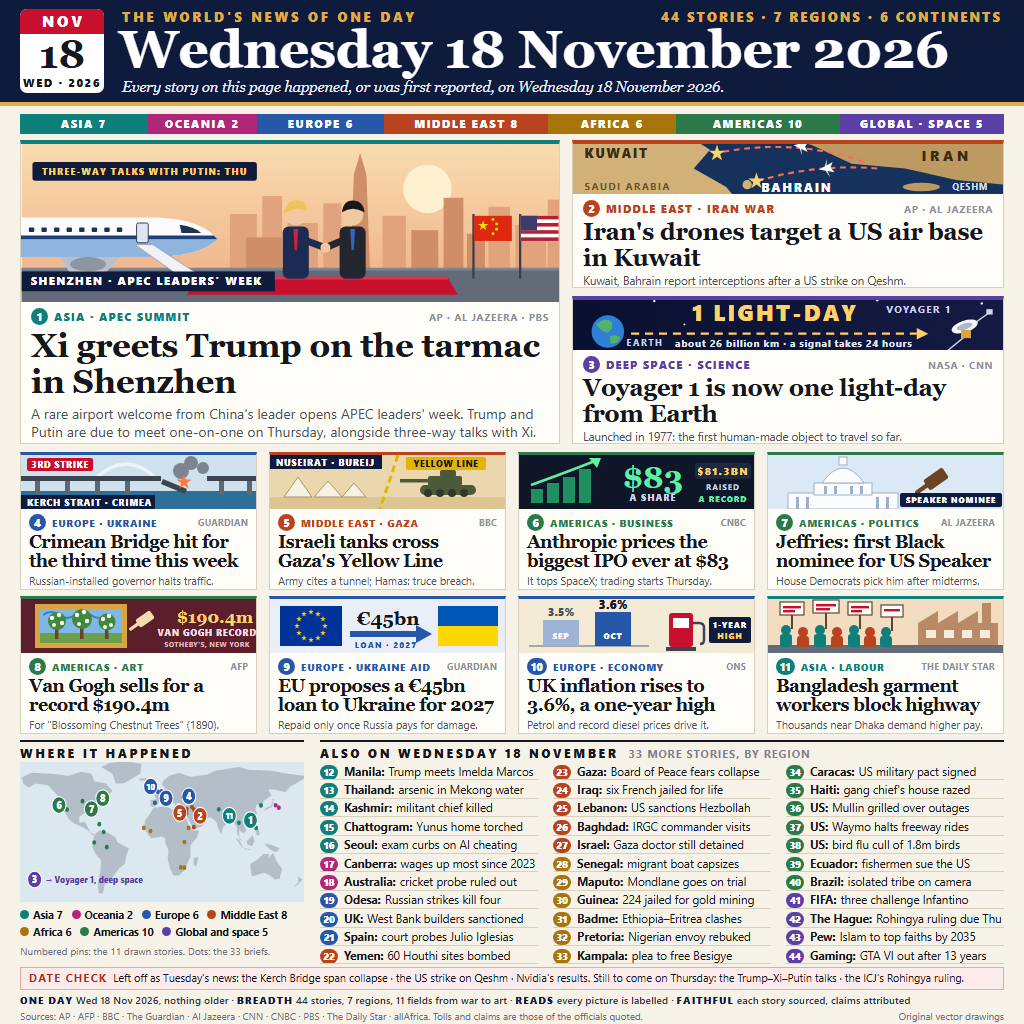
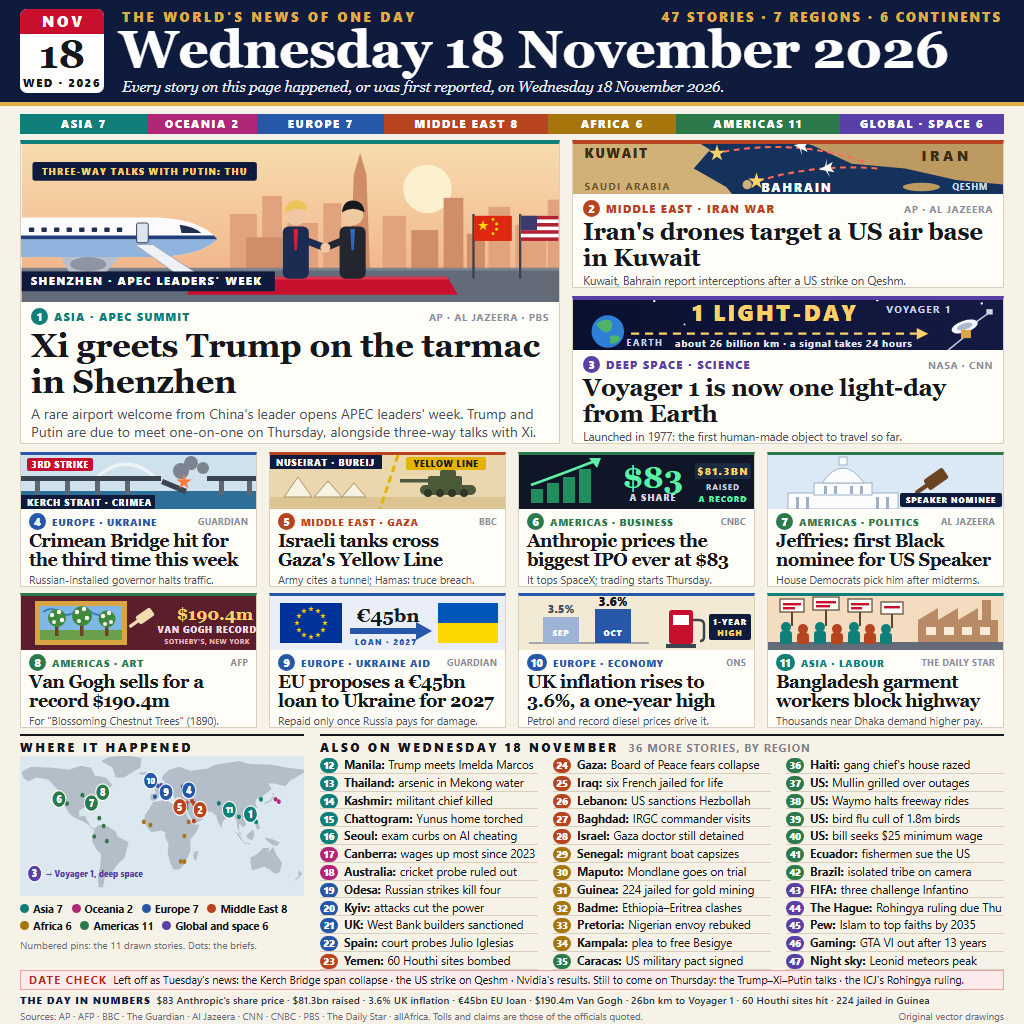
47 stories: three more dated briefs and the day in numbers
Adds Kyiv's power cuts, the US minimum wage bill and the Leonid peak, and
replaces the footer's summary line with the day's key figures.

Changed region(s): [[0.0, 0.5, 1.0, 1.0], [0.6875, 0.0938, 0.7812, 0.125]]

diff --git a/src/page.html b/src/page.html
@@ -80,14 +80,14 @@
   .lead p { font-size: 14px; line-height: 18px; color: var(--soft); margin-top: 5px; }
   .second h2 { font-family: Georgia, serif; font-size: 24px; line-height: 25.5px; letter-spacing: -0.3px; margin-top: 2px; }
   .second p { font-size: 11.5px; line-height: 15px; color: var(--soft); margin-top: 3px; white-space: nowrap; }
-  .tile .txt { padding: 5px 8px 0 8px; }
+  .tile .txt { padding: 4px 8px 0 8px; }
   .tile h2 { font-family: Georgia, serif; font-size: 17.5px; line-height: 19px; letter-spacing: -0.2px; margin-top: 2px; }
   .tile p { font-size: 10.8px; line-height: 13.5px; color: var(--soft); margin-top: 3px; white-space: nowrap; }
   .tile .tag { font-size: 9.5px; letter-spacing: 1px; }
   .tile .tag .src { font-size: 8.5px; letter-spacing: 0.6px; }
 
   /* ---------- briefs ---------- */
-  .briefs { position: absolute; left: 20px; top: 740px; width: 984px; height: 226px; }
+  .briefs { position: absolute; left: 20px; top: 734px; width: 984px; height: 236px; }
   .briefs .head {
     font-size: 12px; font-weight: 800; letter-spacing: 2.6px; border-top: 2px solid var(--ink); padding-top: 3px; height: 22px;
   }
@@ -103,7 +103,7 @@
   .cols { display: flex; gap: 15px; }
   .cols ol { list-style: none; width: 218px; }
   .cols li {
-    font-size: 11.6px; line-height: 15px; height: 18.4px; padding-top: 1.6px; border-bottom: 1px solid var(--rule);
+    font-size: 11.6px; line-height: 15px; height: 17.8px; padding-top: 1.3px; border-bottom: 1px solid var(--rule);
     white-space: nowrap; overflow: hidden; display: flex; align-items: baseline;
   }
   .cols li b { margin-right: 4px; }
@@ -113,11 +113,11 @@
   }
 
   /* ---------- footer ---------- */
-  .foot { position: absolute; left: 20px; top: 967px; width: 984px; }
+  .foot { position: absolute; left: 20px; top: 970px; width: 984px; }
   .meets { font-size: 10.4px; line-height: 13px; margin-top: 4px; white-space: nowrap; font-weight: 600; color: #2a2e37; }
   .meets b { color: var(--navy); letter-spacing: 0.8px; }
   .check {
-    background: #fbeceb; border: 1px solid #e3a8a3; font-size: 10.8px; line-height: 14px; padding: 3px 8px 4px 8px; white-space: nowrap; overflow: hidden;
+    background: #fbeceb; border: 1px solid #e3a8a3; font-size: 10.8px; line-height: 13px; padding: 2px 8px 3px 8px; white-space: nowrap; overflow: hidden;
   }
   .check b { color: #b3261e; letter-spacing: 1.4px; margin-right: 6px; }
   .sources { font-size: 9.8px; line-height: 13px; color: #6a6f79; margin-top: 2px; display: flex; white-space: nowrap; }
@@ -155,7 +155,7 @@
     <div class="yr">WED · 2026</div>
   </div>
   <div class="kicker">THE WORLD'S NEWS OF ONE DAY</div>
-  <div class="count">44 STORIES · 7 REGIONS · 6 CONTINENTS</div>
+  <div class="count">47 STORIES · 7 REGIONS · 6 CONTINENTS</div>
   <h1>Wednesday 18 November 2026</h1>
   <div class="pledge">Every story on this page happened, or was first reported, on Wednesday 18 November 2026.</div>
 </div>
@@ -163,11 +163,11 @@
 <div class="tally">
   <div class="bg-asia" style="flex:7">ASIA 7</div>
   <div class="bg-oceania" style="flex:6">OCEANIA 2</div>
-  <div class="bg-europe" style="flex:7">EUROPE 6</div>
+  <div class="bg-europe" style="flex:7">EUROPE 7</div>
   <div class="bg-mideast" style="flex:9">MIDDLE EAST 8</div>
   <div class="bg-africa" style="flex:7">AFRICA 6</div>
-  <div class="bg-americas" style="flex:9">AMERICAS 10</div>
-  <div class="bg-global" style="flex:9">GLOBAL · SPACE 5</div>
+  <div class="bg-americas" style="flex:9">AMERICAS 11</div>
+  <div class="bg-global" style="flex:9">GLOBAL · SPACE 6</div>
 </div>
 
 <!-- ================= lead: Shenzhen ================= -->
@@ -307,7 +307,7 @@
 </div>
 
 <!-- ================= tiles, row one ================= -->
-<div class="card tile" style="left:20px; top:452px; width:237px; height:138px; border-top:3px solid var(--europe)">
+<div class="card tile" style="left:20px; top:452px; width:237px; height:135px; border-top:3px solid var(--europe)">
   <svg width="237" height="54" viewBox="0 0 237 54">
     <rect width="237" height="54" fill="#cfe1ec"/>
     <rect y="36" width="237" height="18" fill="#2e6f99"/>
@@ -333,7 +333,7 @@
   </div>
 </div>
 
-<div class="card tile" style="left:269px; top:452px; width:237px; height:138px; border-top:3px solid var(--mideast)">
+<div class="card tile" style="left:269px; top:452px; width:237px; height:135px; border-top:3px solid var(--mideast)">
   <svg width="237" height="54" viewBox="0 0 237 54">
     <rect width="237" height="54" fill="#ead7ae"/>
     <rect y="42" width="237" height="12" fill="#dcc592"/>
@@ -361,7 +361,7 @@
   </div>
 </div>
 
-<div class="card tile" style="left:518px; top:452px; width:237px; height:138px; border-top:3px solid var(--americas)">
+<div class="card tile" style="left:518px; top:452px; width:237px; height:135px; border-top:3px solid var(--americas)">
   <svg width="237" height="54" viewBox="0 0 237 54">
     <rect width="237" height="54" fill="#0e1627"/>
     <g fill="#1f8f5f">
@@ -384,7 +384,7 @@
   </div>
 </div>
 
-<div class="card tile" style="left:767px; top:452px; width:237px; height:138px; border-top:3px solid var(--americas)">
+<div class="card tile" style="left:767px; top:452px; width:237px; height:135px; border-top:3px solid var(--americas)">
   <svg width="237" height="54" viewBox="0 0 237 54">
     <rect width="237" height="54" fill="#dbe8f6"/>
     <!-- Capitol -->
@@ -411,7 +411,7 @@
 </div>
 
 <!-- ================= tiles, row two ================= -->
-<div class="card tile" style="left:20px; top:596px; width:237px; height:138px; border-top:3px solid var(--americas)">
+<div class="card tile" style="left:20px; top:593px; width:237px; height:135px; border-top:3px solid var(--americas)">
   <svg width="237" height="54" viewBox="0 0 237 54">
     <rect width="237" height="54" fill="#5a1f2b"/>
     <rect x="14" y="5" width="92" height="44" fill="#d9a441"/>
@@ -437,7 +437,7 @@
   </div>
 </div>
 
-<div class="card tile" style="left:269px; top:596px; width:237px; height:138px; border-top:3px solid var(--europe)">
+<div class="card tile" style="left:269px; top:593px; width:237px; height:135px; border-top:3px solid var(--europe)">
   <svg width="237" height="54" viewBox="0 0 237 54">
     <rect width="237" height="54" fill="#e9eef8"/>
     <rect x="10" y="7" width="62" height="40" fill="#003399"/>
@@ -463,7 +463,7 @@
   </div>
 </div>
 
-<div class="card tile" style="left:518px; top:596px; width:237px; height:138px; border-top:3px solid var(--europe)">
+<div class="card tile" style="left:518px; top:593px; width:237px; height:135px; border-top:3px solid var(--europe)">
   <svg width="237" height="54" viewBox="0 0 237 54">
     <rect width="237" height="54" fill="#f3ead6"/>
     <line x1="10" y1="47" x2="130" y2="47" stroke="#8a8f99" stroke-width="1.5"/>
@@ -491,7 +491,7 @@
   </div>
 </div>
 
-<div class="card tile" style="left:767px; top:596px; width:237px; height:138px; border-top:3px solid var(--asia)">
+<div class="card tile" style="left:767px; top:593px; width:237px; height:135px; border-top:3px solid var(--asia)">
   <svg width="237" height="54" viewBox="0 0 237 54">
     <rect width="237" height="54" fill="#f4dcc0"/>
     <!-- factory -->
@@ -560,7 +560,7 @@
       <!-- briefs: one dot each, in its region's colour -->
       <g fill="#0f7f7a"><circle cx="121" cy="-14.6" r="2.4"/><circle cx="99.8" cy="-19.9" r="2.4"/><circle cx="75" cy="-33.7" r="2.4"/><circle cx="91.8" cy="-22.3" r="2.4"/><circle cx="127" cy="-37.6" r="2.4"/></g>
       <g fill="#b0277a"><circle cx="149" cy="-35.3" r="2.4"/><circle cx="145" cy="-37.8" r="2.4"/></g>
-      <g fill="#2757a8"><circle cx="30.7" cy="-46.5" r="2.4"/><circle cx="-0.1" cy="-51.5" r="2.4"/><circle cx="-3.7" cy="-40.4" r="2.4"/></g>
+      <g fill="#2757a8"><circle cx="30.5" cy="-50.5" r="2.4"/><circle cx="30.7" cy="-46.5" r="2.4"/><circle cx="-0.1" cy="-51.5" r="2.4"/><circle cx="-3.7" cy="-40.4" r="2.4"/></g>
       <g fill="#b8431f"><circle cx="44.2" cy="-15.4" r="2.4"/><circle cx="34.3" cy="-31.5" r="2.4"/><circle cx="44.4" cy="-33.3" r="2.4"/><circle cx="35.5" cy="-33.9" r="2.4"/><circle cx="42" cy="-36" r="2.4"/><circle cx="35.2" cy="-29.5" r="2.4"/></g>
       <g fill="#a8740c"><circle cx="-17.4" cy="-14.7" r="2.4"/><circle cx="32.6" cy="25.9" r="2.4"/><circle cx="-9.2" cy="-11.4" r="2.4"/><circle cx="37.8" cy="-14.7" r="2.4"/><circle cx="28.2" cy="25.7" r="2.4"/><circle cx="32.6" cy="-0.3" r="2.4"/></g>
       <g fill="#2c7a4b"><circle cx="-66.9" cy="-10.5" r="2.4"/><circle cx="-72.3" cy="-18.5" r="2.4"/><circle cx="-77" cy="-38.9" r="2.4"/><circle cx="-112" cy="-33.4" r="2.4"/><circle cx="-93" cy="-42" r="2.4"/><circle cx="-78.5" cy="0.2" r="2.4"/><circle cx="-63" cy="5" r="2.4"/></g>
@@ -582,14 +582,14 @@
       <text x="-139" y="42" font-size="10" font-weight="800" fill="#5a3fa6">→ Voyager 1, deep space</text>
     </svg>
     <div class="legend">
-      <span><i class="bg-asia"></i>Asia 7</span><span><i class="bg-oceania"></i>Oceania 2</span><span><i class="bg-europe"></i>Europe 6</span>
-      <span><i class="bg-mideast"></i>Middle East 8</span><span><i class="bg-africa"></i>Africa 6</span><span><i class="bg-americas"></i>Americas 10</span>
-      <span><i class="bg-global"></i>Global and space 5</span>
+      <span><i class="bg-asia"></i>Asia 7</span><span><i class="bg-oceania"></i>Oceania 2</span><span><i class="bg-europe"></i>Europe 7</span>
+      <span><i class="bg-mideast"></i>Middle East 8</span><span><i class="bg-africa"></i>Africa 6</span><span><i class="bg-americas"></i>Americas 11</span>
+      <span><i class="bg-global"></i>Global and space 6</span>
     </div>
-    <div class="key">Numbered pins: the 11 drawn stories. Dots: the 33 briefs.</div>
+    <div class="key">Numbered pins: the 11 drawn stories. Dots: the briefs.</div>
   </div>
   <div class="also">
-    <div class="head">ALSO ON WEDNESDAY 18 NOVEMBER<span>33 MORE STORIES, BY REGION</span></div>
+    <div class="head">ALSO ON WEDNESDAY 18 NOVEMBER<span>36 MORE STORIES, BY REGION</span></div>
     <div class="cols">
       <ol>
         <li><i class="bg-asia">12</i><b>Manila:</b> Trump meets Imelda Marcos</li>
@@ -600,35 +600,38 @@
         <li><i class="bg-oceania">17</i><b>Canberra:</b> wages up most since 2023</li>
         <li><i class="bg-oceania">18</i><b>Australia:</b> cricket probe ruled out</li>
         <li><i class="bg-europe">19</i><b>Odesa:</b> Russian strikes kill four</li>
-        <li><i class="bg-europe">20</i><b>UK:</b> West Bank builders sanctioned</li>
-        <li><i class="bg-europe">21</i><b>Spain:</b> court probes Julio Iglesias</li>
-        <li><i class="bg-mideast">22</i><b>Yemen:</b> 60 Houthi sites bombed</li>
+        <li><i class="bg-europe">20</i><b>Kyiv:</b> attacks cut the power</li>
+        <li><i class="bg-europe">21</i><b>UK:</b> West Bank builders sanctioned</li>
+        <li><i class="bg-europe">22</i><b>Spain:</b> court probes Julio Iglesias</li>
+        <li><i class="bg-mideast">23</i><b>Yemen:</b> 60 Houthi sites bombed</li>
       </ol>
       <ol>
-        <li><i class="bg-mideast">23</i><b>Gaza:</b> Board of Peace fears collapse</li>
-        <li><i class="bg-mideast">24</i><b>Iraq:</b> six French jailed for life</li>
-        <li><i class="bg-mideast">25</i><b>Lebanon:</b> US sanctions Hezbollah</li>
-        <li><i class="bg-mideast">26</i><b>Baghdad:</b> IRGC commander visits</li>
-        <li><i class="bg-mideast">27</i><b>Israel:</b> Gaza doctor still detained</li>
-        <li><i class="bg-africa">28</i><b>Senegal:</b> migrant boat capsizes</li>
-        <li><i class="bg-africa">29</i><b>Maputo:</b> Mondlane goes on trial</li>
-        <li><i class="bg-africa">30</i><b>Guinea:</b> 224 jailed for gold mining</li>
-        <li><i class="bg-africa">31</i><b>Badme:</b> Ethiopia–Eritrea clashes</li>
-        <li><i class="bg-africa">32</i><b>Pretoria:</b> Nigerian envoy rebuked</li>
-        <li><i class="bg-africa">33</i><b>Kampala:</b> plea to free Besigye</li>
+        <li><i class="bg-mideast">24</i><b>Gaza:</b> Board of Peace fears collapse</li>
+        <li><i class="bg-mideast">25</i><b>Iraq:</b> six French jailed for life</li>
+        <li><i class="bg-mideast">26</i><b>Lebanon:</b> US sanctions Hezbollah</li>
+        <li><i class="bg-mideast">27</i><b>Baghdad:</b> IRGC commander visits</li>
+        <li><i class="bg-mideast">28</i><b>Israel:</b> Gaza doctor still detained</li>
+        <li><i class="bg-africa">29</i><b>Senegal:</b> migrant boat capsizes</li>
+        <li><i class="bg-africa">30</i><b>Maputo:</b> Mondlane goes on trial</li>
+        <li><i class="bg-africa">31</i><b>Guinea:</b> 224 jailed for gold mining</li>
+        <li><i class="bg-africa">32</i><b>Badme:</b> Ethiopia–Eritrea clashes</li>
+        <li><i class="bg-africa">33</i><b>Pretoria:</b> Nigerian envoy rebuked</li>
+        <li><i class="bg-africa">34</i><b>Kampala:</b> plea to free Besigye</li>
+        <li><i class="bg-americas">35</i><b>Caracas:</b> US military pact signed</li>
       </ol>
       <ol>
-        <li><i class="bg-americas">34</i><b>Caracas:</b> US military pact signed</li>
-        <li><i class="bg-americas">35</i><b>Haiti:</b> gang chief's house razed</li>
-        <li><i class="bg-americas">36</i><b>US:</b> Mullin grilled over outages</li>
-        <li><i class="bg-americas">37</i><b>US:</b> Waymo halts freeway rides</li>
-        <li><i class="bg-americas">38</i><b>US:</b> bird flu cull of 1.8m birds</li>
-        <li><i class="bg-americas">39</i><b>Ecuador:</b> fishermen sue the US</li>
-        <li><i class="bg-americas">40</i><b>Brazil:</b> isolated tribe on camera</li>
-        <li><i class="bg-global">41</i><b>FIFA:</b> three challenge Infantino</li>
-        <li><i class="bg-global">42</i><b>The Hague:</b> Rohingya ruling due Thu</li>
-        <li><i class="bg-global">43</i><b>Pew:</b> Islam to top faiths by 2035</li>
-        <li><i class="bg-global">44</i><b>Gaming:</b> GTA VI out after 13 years</li>
+        <li><i class="bg-americas">36</i><b>Haiti:</b> gang chief's house razed</li>
+        <li><i class="bg-americas">37</i><b>US:</b> Mullin grilled over outages</li>
+        <li><i class="bg-americas">38</i><b>US:</b> Waymo halts freeway rides</li>
+        <li><i class="bg-americas">39</i><b>US:</b> bird flu cull of 1.8m birds</li>
+        <li><i class="bg-americas">40</i><b>US:</b> bill seeks $25 minimum wage</li>
+        <li><i class="bg-americas">41</i><b>Ecuador:</b> fishermen sue the US</li>
+        <li><i class="bg-americas">42</i><b>Brazil:</b> isolated tribe on camera</li>
+        <li><i class="bg-global">43</i><b>FIFA:</b> three challenge Infantino</li>
+        <li><i class="bg-global">44</i><b>The Hague:</b> Rohingya ruling due Thu</li>
+        <li><i class="bg-global">45</i><b>Pew:</b> Islam to top faiths by 2035</li>
+        <li><i class="bg-global">46</i><b>Gaming:</b> GTA VI out after 13 years</li>
+        <li><i class="bg-global">47</i><b>Night sky:</b> Leonid meteors peak</li>
       </ol>
     </div>
   </div>
@@ -637,7 +640,7 @@
 <!-- ================= footer ================= -->
 <div class="foot">
   <div class="check"><b>DATE CHECK</b>Left off as Tuesday's news: the Kerch Bridge span collapse · the US strike on Qeshm · Nvidia's results. Still to come on Thursday: the Trump–Xi–Putin talks · the ICJ's Rohingya ruling.</div>
-  <div class="meets"><b>ONE DAY</b> Wed 18 Nov 2026, nothing older · <b>BREADTH</b> 44 stories, 7 regions, 11 fields from war to art · <b>READS</b> every picture is labelled · <b>FAITHFUL</b> each story sourced, claims attributed</div>
+  <div class="meets"><b>THE DAY IN NUMBERS</b> &nbsp;$83 Anthropic's share price · $81.3bn raised · 3.6% UK inflation · €45bn EU loan · $190.4m Van Gogh · 26bn km to Voyager 1 · 60 Houthi sites hit · 224 jailed in Guinea</div>
   <div class="sources"><span>Sources: AP · AFP · BBC · The Guardian · Al Jazeera · CNN · CNBC · PBS · The Daily Star · allAfrica. Tolls and claims are those of the officials quoted.</span><span>Original vector drawings</span></div>
 </div>
 

diff --git a/SOURCES.md b/SOURCES.md
@@ -30,37 +30,40 @@ Every story on the page was checked against at least one report dated 18 Novembe
 | 16 | Asia | South Korea tightens university entrance exam rules against AI cheating | The Guardian |
 | 17 | Oceania | Australian wages grow at their fastest pace since 2023 | The Guardian |
 | 18 | Oceania | Cricket Australia rules out a new "Sandpapergate" investigation | Al Jazeera |
-| 19 | Europe | Russian strikes kill at least four in Odesa | Al Jazeera, The Guardian |
-| 20 | Europe | UK sanctions firms building in the West Bank's E1 settlement area | The Guardian |
-| 21 | Europe | Spanish court opens an investigation into Julio Iglesias | The Guardian |
-| 22 | Middle East | Saudi-led coalition says it struck 60 Houthi military sites in Yemen | Al Jazeera |
-| 23 | Middle East | Board of Peace warns the Gaza ceasefire could collapse | Al Jazeera |
-| 24 | Middle East | Iraq sentences six French nationals to life for joining ISIL | Al Jazeera |
-| 25 | Middle East | US announces new sanctions on Hezbollah | Al Jazeera |
-| 26 | Middle East | A senior IRGC commander visits Baghdad for talks | Al Jazeera |
-| 27 | Middle East | Israeli court extends the detention of Gaza doctor Hussam Abu Safia | Al Jazeera |
-| 28 | Africa | Migrant boat with about 100 people aboard capsizes off Yenne, Senegal | AFP via Al Jazeera |
-| 29 | Africa | Mozambican opposition leader Venancio Mondlane goes on trial | allAfrica, Al Jazeera |
-| 30 | Africa | Guinea jails 224 people over illegal gold mining | allAfrica |
-| 31 | Africa | Fighting flares on the Ethiopia-Eritrea border near Badme | allAfrica |
-| 32 | Africa | South Africa reprimands Nigeria's new high commissioner | allAfrica |
-| 33 | Africa | Kizza Besigye's family renews its call for his release in Uganda | allAfrica |
-| 34 | Americas | Pete Hegseth announces a US-Venezuela military agreement in Caracas | Al Jazeera, AP |
-| 35 | Americas | Salvadoran forces destroy a gang leader's house in Canaan, Haiti | AP |
-| 36 | Americas | US lawmakers question Homeland Security Secretary Mullin on tech outages | AP, PBS News Hour |
-| 37 | Americas | Waymo suspends driverless freeway rides after a California ban | Al Jazeera |
-| 38 | Americas | Largest US egg producer to cull 1.8 million birds after bird flu | Al Jazeera |
-| 39 | Americas | Ecuadorian fishermen sue the US administration over a drone strike | Al Jazeera |
-| 40 | Americas | Rare images show an isolated Indigenous group in Brazil's Amazon | Al Jazeera, AP |
-| 41 | Global | FIFA nominations close with three challengers to Gianni Infantino | Al Jazeera |
-| 42 | Global | ICJ prepares to rule on the Rohingya genocide case on Thursday | The Guardian, Al Jazeera |
-| 43 | Global | Pew projects Islam will be the world's largest religion by 2035 | Al Jazeera, AP |
-| 44 | Global | Grand Theft Auto VI arrives after a 13-year wait | AP |
+| 19 | Europe | Russian strikes kill at least four in Odesa | Al Jazeera |
+| 20 | Europe | Russian attacks cause power cuts in Kyiv | The Guardian |
+| 21 | Europe | UK sanctions firms building in the West Bank's E1 settlement area | The Guardian |
+| 22 | Europe | Spanish court opens an investigation into Julio Iglesias | The Guardian |
+| 23 | Middle East | Saudi-led coalition says it struck 60 Houthi military sites in Yemen | Al Jazeera |
+| 24 | Middle East | Board of Peace warns the Gaza ceasefire could collapse | Al Jazeera |
+| 25 | Middle East | Iraq sentences six French nationals to life for joining ISIL | Al Jazeera |
+| 26 | Middle East | US announces new sanctions on Hezbollah | Al Jazeera |
+| 27 | Middle East | A senior IRGC commander visits Baghdad for talks | Al Jazeera |
+| 28 | Middle East | Israeli court extends the detention of Gaza doctor Hussam Abu Safia | Al Jazeera |
+| 29 | Africa | Migrant boat with about 100 people aboard capsizes off Yenne, Senegal | AFP via Al Jazeera |
+| 30 | Africa | Mozambican opposition leader Venancio Mondlane goes on trial | allAfrica, Al Jazeera |
+| 31 | Africa | Guinea jails 224 people over illegal gold mining | allAfrica |
+| 32 | Africa | Fighting flares on the Ethiopia-Eritrea border near Badme | allAfrica |
+| 33 | Africa | South Africa reprimands Nigeria's new high commissioner | allAfrica |
+| 34 | Africa | Kizza Besigye's family renews its call for his release in Uganda | allAfrica |
+| 35 | Americas | Pete Hegseth announces a US-Venezuela military agreement in Caracas | Al Jazeera, AP |
+| 36 | Americas | Salvadoran forces destroy a gang leader's house in Canaan, Haiti | AP |
+| 37 | Americas | US lawmakers question Homeland Security Secretary Mullin on tech outages | AP, PBS News Hour |
+| 38 | Americas | Waymo suspends driverless freeway rides after a California ban | Al Jazeera |
+| 39 | Americas | Largest US egg producer to cull 1.8 million birds after bird flu | Al Jazeera |
+| 40 | Americas | US lawmakers push a bill to raise the minimum wage to $25 | Al Jazeera |
+| 41 | Americas | Ecuadorian fishermen sue the US administration over a drone strike | Al Jazeera |
+| 42 | Americas | Rare images show an isolated Indigenous group in Brazil's Amazon | Al Jazeera, AP |
+| 43 | Global | FIFA nominations close with three challengers to Gianni Infantino | Al Jazeera |
+| 44 | Global | ICJ prepares to rule on the Rohingya genocide case on Thursday | The Guardian, Al Jazeera |
+| 45 | Global | Pew projects Islam will be the world's largest religion by 2035 | Al Jazeera, AP |
+| 46 | Global | Grand Theft Auto VI arrives after a 13-year wait | AP |
+| 47 | Global | The Leonid meteor shower peaks on 17-18 November | Al Jazeera |
 
 ## The map
 
 The map on the page is drawn by hand from longitude and latitude points in `src/page.html`.
-Numbered pins mark the eleven drawn stories; one dot marks each brief, in its region's colour.
+Numbered pins mark the eleven drawn stories; dots mark where the briefs happened, in each region's colour.
 
 ## Left off the page
 

diff --git a/README.md b/README.md
@@ -4,7 +4,7 @@
 [![rank](https://make.fun/badge/news-image-20261118/BrotherMus/day-on-a-page-20261118/rank.svg)](https://make.fun/bounty/news-image-20261118/leaderboard?utm_source=github&utm_medium=readme&utm_campaign=news-image-20261118)
 [![reward](https://make.fun/badge/news-image-20261118/BrotherMus/day-on-a-page-20261118/reward.svg)](https://make.fun/bounty/news-image-20261118?utm_source=github&utm_medium=readme&utm_campaign=news-image-20261118)
 
-One image that sums up the world's news of Wednesday 18 November 2026 as a newspaper front page: 44 stories from seven regions, six continents and deep space, eleven of them drawn and pinned on a hand-drawn world map, each one checked against a report dated that day. The three lead stories carry the largest type so the page still reads at thumbnail size. The page is hand-written HTML and SVG (`src/page.html`), rendered once to `entry.png`; the entry program checks that file and writes it to the grader's output folder.
+One image that sums up the world's news of Wednesday 18 November 2026 as a newspaper front page: 47 stories from seven regions, six continents and deep space, eleven of them drawn and pinned on a hand-drawn world map, each one checked against a report dated that day. The three lead stories carry the largest type so the page still reads at thumbnail size. The page is hand-written HTML and SVG (`src/page.html`), rendered once to `entry.png`; the entry program checks that file and writes it to the grader's output folder.
 
 ![The day on a page: Wednesday 18 November 2026](entry.png)
 
@@ -31,7 +31,7 @@ python build.py --preview
 
 ## Choosing the stories
 
-The rule for the page is the bounty's own: a story is in only if it happened, or was first reported, on 18 November 2026. Three stories lead because they were the day's most consequential in diplomacy, war and science; eight more are drawn to cover Europe, the Middle East, the Americas and Asia across politics, business, art, the economy and labour; 33 briefs fill in the rest, grouped by region and dotted on the map. News that broke on Tuesday (the Kerch Bridge span collapse, the US strike on Qeshm) or that was still to come on Thursday (the three-way summit, the ICJ ruling) is named in the page's date check rather than shown as Wednesday's.
+The rule for the page is the bounty's own: a story is in only if it happened, or was first reported, on 18 November 2026. Three stories lead because they were the day's most consequential in diplomacy, war and science; eight more are drawn to cover Europe, the Middle East, the Americas and Asia across politics, business, art, the economy and labour; 36 briefs fill in the rest, grouped by region and dotted on the map, and a closing line gives the day in numbers. News that broke on Tuesday (the Kerch Bridge span collapse, the US strike on Qeshm) or that was still to come on Thursday (the three-way summit, the ICJ ruling) is named in the page's date check rather than shown as Wednesday's.
 
 ---
 
